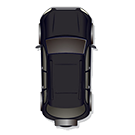
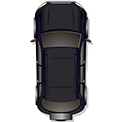
贪心算法停车-停车场创建

Changed region(s): [[0.2459, 0.0, 0.7623, 1.0]]

diff --git a/src/com/education/shun/view/FunctionJFrame.java b/src/com/education/shun/view/FunctionJFrame.java
@@ -2,6 +2,8 @@ package com.education.shun.view;
 
 import com.education.shun.Interface.CaseJFrameMole;
 import com.education.shun.mold.LeadCar;
+import com.education.shun.mold.MyThread;
+import com.education.shun.mold.ParkingScene;
 import com.education.shun.util.ImageUtil;
 import com.education.shun.view.parent.PalyJFrame;
 
@@ -23,46 +25,20 @@ import static java.lang.Thread.sleep;
 
 public class FunctionJFrame extends PalyJFrame implements CaseJFrameMole, ActionListener, Runnable {
 
-    private LeadCar leadCar = new LeadCar(100, 100);
+    //左上:-140, -580   小车:5, 170
+    //左下:-140, -720   小车:5, 170
+    //上1道:-510, -115    小车:440, 30
+    //上2道:-510, -115    小车:540, 30
+    //上3道:-510, -115    小车:690, 30
+    //上4道:-510, -115    小车:800, 30
+    //右上:-1300, -1320   小车:960, 230
+    //右下:-1300, -1320   小车:960, 335
+    private LeadCar leadCar = new LeadCar(5, 170);
+    private ParkingScene parking = new ParkingScene(-140, -580);
 
     private JButton btReturn;
 
 //    private LodingUtil loding = new LodingUtil();
-
-    public static void main(String[] args) {
-        new FunctionJFrame().test();
-    }
-
-    public void test() {
-        JFrame jFrame = new JFrame("小车测试");
-        jFrame.setSize(1080, 720);//设置窗体大小
-        jFrame.setBackground(Color.BLACK);//设置背景
-        jFrame.setLocationRelativeTo(null);//居中
-        jFrame.setDefaultCloseOperation(JFrame.EXIT_ON_CLOSE);
-        jFrame.setVisible(true);
-
-//        JLabel jLabel = new JLabel();
-//        jLabel.setIcon((Icon) LeadCar.IMG_CAR);
-//        jFrame.add(jLabel);
-
-        addKeyListener(new KeyAdapter() {
-            @Override
-            public void keyPressed(KeyEvent e) {
-                leadCar.keyPressed(e);//委托给mysnake
-            }
-        });
-
-        new Thread(new FunctionJFrame()).start();
-    }
-
-    /**
-     * 绘制界面
-     */
-    @Override
-    public void paint(Graphics g) {
-        g.drawImage(ImageUtil.images.get("pk_bg"), 0, 0, null);
-        leadCar.draw(g);
-    }
 
     @Override
     public void view() {
@@ -79,44 +55,30 @@ public class FunctionJFrame extends PalyJFrame implements CaseJFrameMole, Action
         super.addElement(btReturn);
         super.upLayeredPane(btReturn);
 
+//        super.playGame();
         //添加键盘监听器，处理键盘按下事件
         addKeyListener(new KeyAdapter() {
             @Override
             public void keyPressed(KeyEvent e) {
                 leadCar.keyPressed(e);//委托给leadCar
+                parking.keyPressed(e);//委托给parking
             }
         });
 
         new Thread(this).start();
-
     }
     /**
-     * 防止图片闪烁，使用双重缓存
-     *
-     * @param g
+     * 绘制界面
      */
-    /*Image backImg = null;
-
     @Override
-    public void update(Graphics g) {
-        if (backImg == null) {
-            backImg = createImage(Constant.GAME_WIDTH, Constant.GAME_HEIGHT);
-        }
-        Graphics backg = backImg.getGraphics();
-        Color c = backg.getColor();
-        backg.setColor(Color.BLACK);
-        backg.fillRect(0, 0, Constant.GAME_WIDTH, Constant.GAME_HEIGHT);
-        backg.setColor(c);
-        paint(backg);
-        g.drawImage(backImg, 0, 0, null);
-    }*/
+    public void paint(Graphics g) {
+        parking.draw(g);
+        leadCar.draw(g);
+    }
+
     @Override
     public void run() {
         while (true) {
-//            LodingUtil loding = new LodingUtil();
-//            loding.setLoding();
-//            super.addElement(loding);
-//            super.upLayeredPane(loding);
             repaint();
             try {
                 sleep(50);
@@ -133,5 +95,4 @@ public class FunctionJFrame extends PalyJFrame implements CaseJFrameMole, Action
             new MenuJFrame().view();
         }
     }
-
 }

diff --git a/src/com/education/shun/mold/ParkingScene.java b/src/com/education/shun/mold/ParkingScene.java
@@ -1,0 +1,89 @@
+package com.education.shun.mold;
+
+import com.education.shun.util.GameUtil;
+import com.education.shun.util.ImageUtil;
+
+import java.awt.*;
+import java.awt.event.KeyEvent;
+import java.awt.image.BufferedImage;
+
+/**
+ * @program: ParkingSystem
+ * @description: 停车场
+ * @author: qishun zhou
+ * @create: 2021-04-12 14:55
+ **/
+
+public class ParkingScene extends ModelObject {
+
+    private static final BufferedImage IMG_PARKING = (BufferedImage) ImageUtil.images.get("pk_bg");
+//    private static BufferedImage newImgParking;//移动后的背景图片
+    boolean up, down, left, right;//初始态向上
+
+    public ParkingScene(int x, int y) {
+        this.x = x;
+        this.y = y;
+        this.speed = 10;
+    }
+
+    /**
+     * 接收键盘按下事件
+     * @param e
+     */
+    public void keyPressed(KeyEvent e) {
+        switch (e.getKeyCode()) {
+            case KeyEvent.VK_SPACE:     //设置“空格”倒车
+                if (up && y > -1200) {
+                    y -= speed;
+                } else if (down && y < -100) {
+                    y += speed;
+                } else if (left && x > -1290) {
+                    x -= speed;
+                } else if (right && x < -150) {
+                    x += speed;
+                }
+                break;
+            case KeyEvent.VK_UP:
+                if (!down && y < -100) {// 不能向初始方向的反方向移动
+                    up = true;
+                    down = false;
+                    left = false;
+                    right = false;
+                    y += speed;
+                }
+                break;
+            case KeyEvent.VK_DOWN:
+                if (!up && y > -1200) {
+                    up = false;
+                    down = true;
+                    left = false;
+                    right = false;
+                    y -= speed;
+                }
+                break;
+            case KeyEvent.VK_LEFT:
+                if (!right && x < -150) {
+                    up = false;
+                    down = false;
+                    left = true;
+                    right = false;
+                    x += speed;
+                }
+                break;
+            case KeyEvent.VK_RIGHT:
+                if (!left && x > -1290) {
+                    up = false;
+                    down = false;
+                    left = false;
+                    right = true;
+                    x -= speed;
+                }
+                break;
+        }
+    }
+
+    @Override
+    public void draw(Graphics g) {
+        g.drawImage(IMG_PARKING, x, y, null);
+    }
+}

diff --git a/src/com/education/shun/mold/LeadCar.java b/src/com/education/shun/mold/LeadCar.java
@@ -17,39 +17,29 @@ import java.util.List;
  * @create: 2021-04-10 21:15
  **/
 
-public class LeadCar extends CarObject implements CarMold {
+public class LeadCar extends ModelObject implements CarMold {
 
     //小车图片(未旋转)
     private static final BufferedImage IMG_CAR = (BufferedImage) ImageUtil.images.get("car04");
-/*    public static BufferedImage IMG_CAR;
 
-    static {
-        try {
-            IMG_CAR = ImageIO.read(new File("src/image/汽车07.png"));
-        } catch (Exception e) {
-            e.printStackTrace();
-        }
-    }*/
-
-    private int speed;//移动速度
-    private int length;//长度
-    private int num;//
-    public static List<Point> bodyPoints = new LinkedList<>();
-    public int score = 0;//分数
+//    private int speed;//移动速度
+//    private int length;//长度
+//    private int num;//
+//    public static List<Point> bodyPoints = new LinkedList<>();
+//    public int score = 0;//分数
     private static BufferedImage newImgSnakeHead;//旋转后的蛇头图片
-    boolean up = true, down, left, right;//初始态向上
+    boolean up, down, left, right;//初始态向上
 
     public LeadCar(int x, int y) {
-        this.live = true;
         this.x = x;
         this.y = y;
+        this.speed = 5;
+        newImgSnakeHead = IMG_CAR;
 //        this.img = ImageUtil.images.get("snake_body");
 //        this.width = img.getWidth(null);
 //        this.height = img.getHeight(null);
-        this.speed = 5;
-        this.length = 1;
-        this.num = width / speed;
-        newImgSnakeHead = IMG_CAR;
+//        this.length = 1;
+//        this.num = width / speed;
     }
 
     /**
@@ -142,7 +132,7 @@ public class LeadCar extends CarObject implements CarMold {
     /**
      * 处理是否吃到到身体问题
      */
-    public void eatBody(){
+    /*public void eatBody(){
         for (Point point : bodyPoints) {
             for (Point point2 : bodyPoints) {
                 if(point.equals(point2)&&point!=point2){
@@ -150,16 +140,16 @@ public class LeadCar extends CarObject implements CarMold {
                 }
             }
         }
-    }
+    }*/
     /**
      * 绘制蛇身
      * @param g
      */
-    public void drawBody(Graphics g) {
+    /*public void drawBody(Graphics g) {
         int length = bodyPoints.size() - 1-num;//前num个存储的是蛇头的当前轨迹坐标
         for (int i = length; i >= num; i -= num) {//从尾部添加
             Point p = bodyPoints.get(i);
             g.drawImage(img, p.x, p.y, null);
         }
-    }
+    }*/
 }

diff --git a/src/com/education/shun/view/parent/StartJFrame.java b/src/com/education/shun/view/parent/StartJFrame.java
@@ -3,6 +3,7 @@ package com.education.shun.view.parent;
 import com.education.shun.Interface.CaseJFrameMole;
 import com.education.shun.Interface.JFrameMold;
 import com.education.shun.util.GameUtil;
+import com.education.shun.util.ImageUtil;
 import com.education.shun.view.LoginJFrame;
 import com.education.shun.view.MenuJFrame;
 import com.education.shun.view.RegisterJFrame;
@@ -28,17 +29,12 @@ public class StartJFrame extends JFrame implements JFrameMold {
     //创建背景面板。
     private GameUtil bgPanel;
     //创建图片对象
-    private ImageIcon image;
+    private Image image;
 
     private BufferedImage parkingIcon;
 
     public void view() {
-        try {
-            parkingIcon = ImageIO.read(new File("src/image/菜单图标.png"));
-        } catch (IOException e) {
-            System.out.println("图片获取失败...");
-            e.printStackTrace();
-        }
+        parkingIcon = (BufferedImage) ImageUtil.images.get("menu_icon");
 
         this.setTitle("停车场系统");
         this.setVisible(true);
@@ -51,10 +47,10 @@ public class StartJFrame extends JFrame implements JFrameMold {
         }
         //窗口布局设置
         this.setLayout(null);       //不采取任何布局
-        image = new ImageIcon("src/image/菜单背景.jpg");
+        image = ImageUtil.images.get("menu_bg");
         container = this.getContentPane();
-        bgPanel = new GameUtil(image.getImage());
-        bgPanel.setBounds(0, 0, image.getIconWidth(), image.getIconHeight());
+        bgPanel = new GameUtil(image);
+        bgPanel.setBounds(0, 0, ImageUtil.WINDOW_WIDTH, ImageUtil.WINDOW_HEIGHT);
         container.add(bgPanel);
     }
 

diff --git a/src/com/education/shun/mold/ModelObject.java b/src/com/education/shun/mold/ModelObject.java
@@ -11,14 +11,14 @@ import java.awt.*;
  * @create: 2021-04-10 21:18
  **/
 
-public abstract class CarObject {
+public abstract class ModelObject {
 
     int x;//横坐标
     int y;//纵坐标
     Image img;//图片
     int width;//图片宽度
     int height;//图片高度
-    public boolean live;//死亡/存活
+    int speed;//移动速度
 
     public abstract void draw(Graphics g);
 

diff --git a/src/com/education/shun/util/ImageUtil.java b/src/com/education/shun/util/ImageUtil.java
@@ -15,6 +15,9 @@ public class ImageUtil {
 
     public static Map<String, Image> images = new HashMap<>();
 
+    public static final int WINDOW_WIDTH = 1080;
+    public static final int WINDOW_HEIGHT = 720;
+
     private static final String IMG_PRE = "src/image/";     //图片路径前缀
 
     static{
